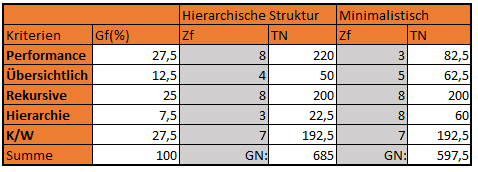
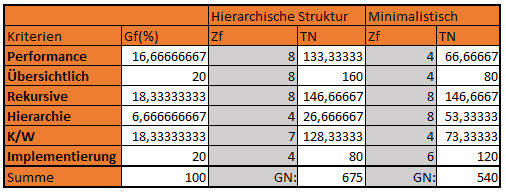
Implementierungsänderungen

diff --git a/chapters/examples/chapter05.tex b/chapters/examples/chapter05.tex
@@ -32,8 +32,8 @@ Die Tabelle (\ref{fig:Ziel}) zeigt was die verschiedenen Zahlen bedeuten. \cite{
  \label{fig:Nutz}
 \end{figure}
 
-Wie man erkennen kann ist der \ac{GN} zwischen den beiden Faktoren bei lediglich $32,5$.
-Da dieser unterschied zu gering ist, wird die Wermaßstäbe weiter verfeinert.
+Wie man erkennen kann ist der \ac{GN} zwischen den beiden Faktoren bei $70$.
+Da kein Unterschied erkannt werden kann, wird die Wermaßstäbe weiter verfeinert.
 Dadurch ändert sich die Punkteskala und Tabelle wie folgt:
 \begin{figure}[h!]
  \centering
@@ -48,71 +48,68 @@ Dadurch ändert sich die Punkteskala und Tabelle wie folgt:
  \caption{Nutzwertanalyse für die beiden Konzepte}
  \label{fig:Nutz}
 \end{figure}
-Durch die Verfeinerung liegt der Unterschied zwischen den beiden Faktoren bei $87,5$.
-Anhand der Verdopplung der Punkteskala hat sich der Unterschied fast verdreichfacht.
+Durch die Verfeinerung liegt der Unterschied zwischen den beiden Faktoren bei $135$.
 Wodurch das Konzept Hierarchische Struktur eindeutig im Rank an erste Stelle steht.
 
 \section{Vor/Nachteile Hierarchische Struktur}
 \label{sec:chapter05:Hierarchische}
-Bei der ersten Tabelle (\ref{fig:Ziel}) wurde der Hierarchische Struktur für Performance vier, Übersichtlich zwei, Rekursive vier, Hierarchie eins und \ac{K/W} drei Punkte gegeben.
+Bei der ersten Tabelle (\ref{fig:Ziel}) wurde der Hierarchische Struktur für Performance vier, Übersichtlich vier, Rekursive vier, Hierarchie eins, \ac{K/W} vier und Implementierung zwei Punkte gegeben.
 Die Performance hat vier bekommen, da die Effizienz durch den Algorithmus im Allgemeinfall um die 50 mal effektiver ist.
 Dies ist eine enorme Steigerung weshalb es die maximale Punktzahl bekommen hat.
-Übersichtlich hat zwei Punkte erhalten, weil die Entwickler einerseits dieses Konzept als übersichtlicher empfinden.
+Übersichtlich hat vier Punkte erhalten, weil die Entwickler einstimmig dieses Konzept als übersichtlicher empfinden.
 Zudem ist es einfach festzustellen, welches Profil, welche Aufgabe hat.
 Aber es hat zwei Punkte verloren dadurch, dass die Graphik bei weiteren Profilen schwieriger zu lesen wird, da diese groß ist.
 Rekursive hat vier Punkte erlangt, da es durch die Regelung, dass Profile nur noch Profile oder Berechtigungen enthalten sowie die feste Struktur keine Rekursivenbeziehungen möglich sind, sofern man nicht aktive gegen die Regelungen verstößt.
 Deshalb hat es wie Performance vier Punkte erhalten.
 Für die Hierarchie hat die Struktur nur einen Punkt bekommen, weil es bei diesem Punkt darum ging die Hierarchie so stark wie möglich zu verringern.
 Es ist besser als die vorherige Hierarchie, aber ist dennoch sehr hierarchisch.
-Die \ac{K/W} haben nur drei Punkte bekommen, da die Wartung aufwendig ist, um sicher zu Stellen, dass die Konvention eingehalten wurden.
+Die \ac{K/W} haben nur vier Punkte bekommen, da nach der Entwicklung der Profile, diese nicht mehr geändert werden sollen.
+Die Implementierung hat lediglich zwei Punkte bekommen, da diese aufwendig.
 \newline
 \newline
 Nachdem die \ac{Zf} erweitert wurde, haben sich die Werte wie folgt verändert.
-Die Performance wurde acht Punkte, Übersichtlich vier, Rekursive acht, Hierarchie drei und \ac{K/W} sieben Punkte gegeben.
+Die Performance wurde acht Punkte, Übersichtlich acht, Rekursive acht, Hierarchie vier, \ac{K/W} sieben und Implementierung vier Punkte gegeben.
 Wie schon im vorherigen Absatz angegeben kann dieses Konzept 50 mal effektiver sein.
-Deshalb habe diesem Punkt Exzellent gegeben, da dies eine deutliche Verbesserung ist.
-Übersichtlich hat ein vollbefriedigend Bewertung erhalten.
+Deshalb habe diesem Punkt exzellent gegeben, da dies eine deutliche Verbesserung ist.
+Übersichtlich hat eine exzellelte Bewertung erhalten.
 Die Struktur ist geordnet nach den Fachbereichen und hat ein hierarchie Limit von vier.
-Wenn man die vorherigen Probleme mit dazu in betracht zieht, habe ich dementsprechend der übersicht vier Punkt gegeben.
+Dies ist der Rahmen wodurch die IT-Spezialisten dies als übersichtlich befinden.
 In der Kategorie Rekrusive ändert sich nicht viel, weshalb es wieder volle Punktzahl erlangt.
 Hierarchie hat vier Punkte bekommen, da die hierarchie wenn auch nur minimal verringert wurde.
 Dies würde nur drei Punkte geben, aber da es auch die hierarchie Stufe auf vier limitiert wurde dies einen weiteren Punkt gegeben.
-\ac{K/W} hat nur sieben statt acht Punkte bekommen, da dieses Konzept in einem regelmäßigen Zyklus gewartet werden muss und diese Wartung aufwendig ist.
-Dies liegt daran, dass man allen Stellen überprüfen muss, ob die Regel, dass Profile nur Profile oder Berechtigungen enthalten nicht verletzt wurde.
-Daher ist es eine hervorragende Lösung, aber hat dennoch etwas was man berücksichtigen muss.
+\ac{K/W} hat nur sieben statt acht Punkte bekommen, da dieses Konzept, trotz dessen, dass es nicht geändert werden soll, in einem regelmäßigen Zyklus gewartet werden muss.
+Dies liegt daran, dass man überprüfen muss, ob nicht ein Entwickler aus Faulheit die Struktur geändert hat.
+Daher ist es eine hervorragende Lösung, aber man muss dennoch etwas berücksichtigen.
 \newline
 \newline
 Zusammenfassend hat das Konzept Hierarchische Struktur viele positive Aspekte.
-Unter diese Fallen zum Beispiel die erhöhte Performance sowie Rekursive und \ac{K/W}.
-Auf der anderen Seite ist dieses Konzept weiterhin sehr hierarchisch.
-Dabei ist zu berücksichtigen, dass dies aber nur ein Faktor von IT-Spezialisten war und nicht ein Teil des Hauptzieles.
-Zudem ist \ac{K/W} aufwendig sowie die Implementierung, da man die bestehenden Profile aufbrechen und neu Anordnen muss.
+Unter diese Fallen zum Beispiel die erhöhte Performance sowie Rekursive und Übersichlichkeit.
+Auf der anderen Seite ist dieses Konzept weiterhin sehr hierarchisch sowie ist die Implementierung aufwendig.
 Dies würde einiges an personen Tagen sowie weiteres Geld kosten.
 
 \section{Vor/Nachteile Minimalistisch}
 \label{sec:chapter05:Minimalistisch}
-Das Minimalistisch Konzept hat für Performance zwei, Übersichtlich zwei, Rekursive vier, Hierarchie vier und \ac{K/W} drei Punkte erhalten.
+Das Minimalistisch Konzept hat für Performance zwei, Übersichtlich eins, Rekursive vier, Hierarchie vier, \ac{K/W} zwei und Implementierung vier Punkte erhalten.
 Durch die verringerte Struktur hat sich die Performance ebenso verbessert, aber dies ist keine permanente Lösung, da ein Steigen von Profilen diesen Bonus nichtig macht.
 Aus diesem Grund hat es nur zwei Punkte bekommen.
-Übersichtlich hat ebenso nur zwei Punkte erlangt.
+Übersichtlich hat es nur einen Punkte erlangt.
 Auch wenn durch das entfernen der Hierarchie weniger Verwirrung herrscht, ist es dennoch sehr unübersichtlich, wenn alle Berechtigungen mit Außnahme der standard Berechtigunen, direkt am Profil hängen.
 Da es keine tiefe Hierarchie mehr gibt, ist es auch unmöglich, dass es eine Rekursion gibt.
 Weshalb dieses Konzept in diesem Punkt die maximale Anzahl von Punkten erlangt.
 Wie schon angesprochen geht es bei dem Punkt Hierarchie darum die Hierarchie so stark wie möglich zu reduzieren und dieses Konzept hat die Hierarchiestruktur auf ein Minimum gebracht und erhält daher vier Punkte.
-Die \ac{K/W} haben drei Punkte erlangt, da diese regelmäßig überprüft werden müssen, dass Entwickler nicht aus verschiedenen Gründen zusätzliche Profile hinzufügen.
+Die \ac{K/W} haben zwei Punkte erlangt, da diese regelmäßig überprüft werden müssen, dass Entwickler nicht aus verschiedenen Gründen zusätzliche Profile hinzufügen.
 Dies ist eine Sorge, da genau dies zur unübersichtlichen Berechtigungsstruktur gesorgt hat, die die Helvetia aktuell hat.
 \newline
 \newline
 Nach der Spezifizierung hat sich die Bewertung von das Minimalistisch Konzept wie folgt geändert.
-Die Performance wurde drei Punkte, Übersichtlich fünf, Rekursive acht, Hierarchie acht und \ac{K/W} sieben Punkte gegeben.
-Der Punkt Performance hat befriedigend bekommen, da die neue Struktur diese eine Verbesserung ist, aber dies sich ändern kann.
-Übersichtlich hat gut statt ein befriedigend erhalten, weil selbst wenn es auch schwieriger ist übersichtlich zu sehen, welche Berechtigungen alle einem Profil zu geordnet wurden, ist es dennoch leichter herauszufinden, wer alles eine spezifische Berechtigungen hat.
+Die Performance wurde vier Punkte, Übersichtlich vier, Rekursive acht, Hierarchie acht, \ac{K/W} vier und Implementierung sechs Punkte gegeben.
+Der Punkt Performance hat befriedigend bekommen, vier die neue Struktur diese eine Verbesserung ist, aber dies sich ändern kann.
+Übersichtlich hat gut statt ein vollbefriedigend erhalten, weil selbst wenn es auch schwieriger ist übersichtlich zu sehen, welche Berechtigungen alle einem Profil zu geordnet wurden, ist es dennoch leichter herauszufinden, wer alles eine spezifische Berechtigungen hat.
 Dies liegt daran, dass die Berechtigungen nicht mehrmals an verschiedenen Stellen dem Profil zu gewissen werden.
 Rekursive erlangt ein exzellent, da es nicht möglich ist eine rekursive Beziehung zu erstellen bis auf, wenn ein Standardprofil auf sich selber zeigt.
-Hierarchie ebenso wie Rekursive bekommt ein exzellent, da eine weitere reduktion der Hierarchie für lediglich mehr Chaos sorgen würde, da dann alle Berechtigunen direkt am Nutzer hängen würden.
-\ac{K/W} erlangt eine sieben. 
-Das Minimalistisch Konzept hat nicht viele Konzepte, die überprüft werden müssen sowie ist die Überprüfung einfach, da die Struktur so minimalistisch ist.
-Ein Punkt wurde jedoch abgezogen aufgrund dessen, dass es regelmäßig überprüft werden muss.
+Hierarchie ebenso wie Rekursive bekommt ein exzellent, da eine weitere reduktion der Hierarchie für lediglich mehr Chaos sorgen würde, da dann alle Berechtigungen direkt am Nutzer hängen würden.
+\ac{K/W} erlangt eine vier. 
+Das Minimalistisch Konzept hat nicht viele Konvention, die überprüft werden müssen sowie ist die Überprüfung einfach, da die Struktur so minimalistisch ist, aber es regelmäßig überprüft werden muss und das Risiko, dass ein Entwickler die Struktur ändert ist hoch.
 \newline
 \newline
 Zusammenfassend kann gesagt werden, dass das Minimalistisch Konzept am Hilfsreichsten ist, wenn man nach spezifischen Berechtigungen sucht.

diff --git a/chapters/examples/chapter04.tex b/chapters/examples/chapter04.tex
@@ -78,7 +78,7 @@ Deswegen gibt es nicht die eine Lösung, um eine solche Herausforderung zu löse
 \label{sec:chapter04:DB}
 Die Helvetia verwendet zum Speichern der Informationen für die Berechtigungsstruktur sogenannte HV-Tabellen.
 Bei diesen HV-Tabellen handelt es sich, um DB2-Tabellen.
-Zudem besteht eine Ähnlichkeit zwischen dem Nutzer und dem Profil in der Berechtigungsstruktur im Vergleich zum Account und der Gruppe in Datenbanken. \textbf{\textcolor[rgb]{1,0,0}{Der Satz ist für mich so nicht verständlich.}}
+Zudem besteht eine Ähnlichkeit zwischen dem Nutzer und dem Profil in der Berechtigungsstruktur im Vergleich zum Account und der Gruppe in Datenbanken.
 Deswegen wird betrachtet, wie der Standard von Accounts und Gruppen innerhalb von Datenbanken ist.
 \newline
 Berechtigungen für Rollen werden mittels GRANT...ON...TO...[GRANT OPTION] vergeben.
@@ -113,12 +113,14 @@ Und auch IBM gibt in seiner Best Practice an, dass Angestellte in einem Unterneh
 \label{sec:chapter04:Herausforderung}
 Bei der Recherche (\ref{ch:Recherche}) sind verschiedene Herausforderungen und Anforderungen aufgetreten.
 Um qualitativ ein Konzept entwickeln zu können, müssen diese Herausforderungen und Anforderungen aufgelistet und analysiert werden.
+Neben den genannten Punkten wurde der Punkte Implementierung hinzugefügt, da diese bei der Entscheidung der Konzepte elementar ist, da dass Unternehmen sich im Klaren sein muss, wie viele Ressourcen das neue Konzept kostet sowie der Punkt der Performance, da eine bessere Performance immer gut.
 \begin{itemize}
-	\item Performance der Tabellen erhöhen (effizientere Verifizierung der Mitarbeiter)
-	\item Übersichtlicher gestalten
+	\item Performance der Tabellen erhöhen 
+	\item Übersichtlicher gestalten (effizientere Verifizierung der Mitarbeiter)
 	\item Rekursive Beziehungen verhindern
 	\item Hierarchie verringern
 	\item \ac{K/W}
+	\item Implementierung
 \end{itemize}
 Um diese zu quantifizieren zu können, wird eine Prioritätsanalyse (\ref{fig:Prio}) verwendet, um festzustellen, wie die Priorität für die Konzepte sein muss. \cite{BdIufH}
 Bei der Prioritätsanalyse wurde sich für ein vier Punktesystem entschieden.
@@ -135,18 +137,19 @@ Zwischen der Übersichtlichkeit und der Rekursion wurden der Rekursion drei Punk
 Die Rekursion bekommt zur Hierarchie vier Punkte und die Hierarchie zur Rekursion null Punkte, da eine rekursive Beziehung die Hierarchie automatisch unendlich macht.
 \newline
 \newline
-Wenn man dies auswertet, bekommt die Performance einen Gewichtsfaktor von 27,5\%, die Übersichtlichkeit 12,5\%, die Rekursion 25\%, die Hierarchie 7,5\% und \ac{K/W} 27,5\%.
+Wenn man dies auswertet, bekommt die Performance einen Gewichtsfaktor von 16,66667\%, die Übersichtlichkeit 20\%, die Rekursion 18,33333\%, die Hierarchie 6,66667\%, die \ac{K/W} 18,33333\% und Implementierung 20\%.
 Dadurch sieht die Rangfolge wie folgt aus:
 \begin{enumerate}
-	\item Performance | \ac{K/W}
-	\item Rekursion
-	\item Übersichtlichkeit
+	\item Implementierung | Übersichtlichkeit
+	\item Rekursion | \ac{K/W}
+	\item Performance
 	\item Hierarchie
 \end{enumerate}
 Anhand dieser Reihenfolge werden die folgenden Konzepte entwickelt.
 \begin{figure}[h!]
+\hspace*{-2cm}
  \centering
- \includegraphics[width=1\textwidth]{gfx/Picture/Prioritatätsanalyse.PNG}
+ \includegraphics[width=1.25\textwidth]{gfx/Picture/Prioritatätsanalyse.PNG}
  \caption{Prioritätsanalyse der Kriterien}
  \label{fig:Prio}
 \end{figure}
@@ -176,7 +179,7 @@ In solchen Fällen würden diese Profile zu Hauptprofilen werden und vom vorheri
 	\item Manche Fachbereiche haben aufzählende Profile (\ref{fig:Profile}).
 Diese Profile sollen nur noch über die Berechtigungen für den eigenen Vorgang enthalten, sodass ein Privas Profil nur Privas Berechtigungen enthält.
 Die Berechtigung die verloren gehen würden eigene Profile bekommen und würden über ein anderes Sammelprofil dem Hauptprofil hinzugefügt werden.
-	\item Sollte ein Nutzer weitere Berechtigungen benötigen, würden diese über ein anderes Hauptprofil, welches am ehesten für die Aufgabe passt, zugeordnet.
+	\item Sollte ein Nutzer weitere Berechtigungen benötigen, würden diese direkt ihm zugewiesen werden.
 	\item Wenn ein Account reaktiviert wird, muss dieser rezertifiziert werden.
 \end{itemize}
 Diese Konventionen sollen verhindern, dass die Struktur weiter wächst und das man ohne Probleme feststellen kann, was für Berechtigungen ein Profil hat.
@@ -195,7 +198,6 @@ Außerdem sollte die Performance verbessert werden. Dies durch die fehlenden rek
  \caption{Beispiel der neuen Berechtigungsstruktur}
  \label{fig:NeuBer}
 \end{figure}
-\newpage
 Das Bild (\ref{fig:AltBer}) zeigt eine bestehende Berechtigungsstruktur.
 (\ref{fig:NeuBer}) hingegen bildet die Struktur nach den neuen Konventionen dar.
 Diese beide Bilder wurden den IT-Spezialisten gezeigt, die befragt wurden.
@@ -238,6 +240,40 @@ Average(Merge) = $100*log(100) = 200$
 \newline
 Man kann erkennen, dass im normalen Falle die neue Struktur mit dem Merge-Sort deutlich effektiver ist als die bestehende Struktur.
 Diese würde durchschnittlich $50$ mal effektiver sein.
+\newline
+\newline
+Die Entwicklung dieses Konzeptes ist aufwendig und komplex.
+Es gibt dabei zwei Möglichkeiten wie dieses umgesetzt werden kann.
+Die erste Möglichkeit besteht dabei, dass sich eine Gruppe von Entwicklern an die bestehende Struktur setzen, eine Kopie davon erstellen und anhand der Kopie die neue Struktur erstellen.
+Dies ist jedoch Zeit aufwendig und es besteht ein hohes Potenzial, dass Fehler geschehen durch nachlässiges Arbeiten.
+\newline
+Die zweite Möglichkeit wäre eine Algorithmus zu schreiben, welcher dies automatisiert.
+Da weder die Zeit besteht noch die entsprechende Umgebung zum Testen eines Prototypen, kann die Entwicklung des Algorithmus innerhalb dieser Arbeit nur mittels von Pseudocode stattfinden.
+Dabei würde die Automatisierung wie folgt aussehen.
+\newline
+\newline
+\textbf{Algorithmus} conversionToNewStructure(DB$2$ T)
+\newline
+\newline
+\textbf{Input} Eine DB2 Tabelle T, welche die Struktur enthält
+\newline
+\newline
+\textbf{Output} Neu DB2 Tabelle T, welches die neue Struktur von Profilen enthält.
+\newline
+\newline
+Der Algorithmus muss dabei die Profile in zwei Kategorien aufteilen:
+\begin{itemize}
+	\item Standardprofil
+	\item Lese-/Schreibeprofil
+\end{itemize}
+Für die Standardprofile werden die Profile überprüft, die viele Unterprofile haben.
+Wenn ein Profil X Y viele Unterprofile hat, wird dieses zu einem Standardprofil.
+Die restlichen Profile werden zu Lese-/Schreibeprofile.
+Die individuellen Sammelprofile werden basierend auf den Lese-/Schreibeprofile generiert.
+Die Verbindungen zwischen den bisherigen Profilen wird aufgebrochen und zu den neuen Sammelprofilen zu gewiesen, welche mit dem Standardprofil verbunden sind.
+Anschließend werden auf redundante Profile und Berechtigungen überprüft, welche dann entfernt werden.
+Dabei muss man aber zum Schluss begutachten, ob alle generierten Standardprofile wirklich Standardprofile sein sollten sowie ob die bestehende Anzahl ausreichend ist.
+
 \newpage
 \section{Konzept Minimalistisch}
 \label{sec:chapter04:minimal}
@@ -247,6 +283,7 @@ Dabei haben die IT-Spezialisten folgende Vorschläge für die Konventionen gemac
 \begin{itemize}
 	\item Profile enthalten nur noch Profile oder Berechtigungen.
 	\item Es werden Standardprofile für die jeweiligen Abteilungen entwickelt.
+	\item Nutzer, die in verschiedenen Abteilungen operieren erhalten, die jeweiligen Standardprofile.
 	\item Zusätzliche Berechtigungen werden dem Nutzer direkt zu geordnet.
 	\item Wenn ein Account reaktiviert wird, muss dieser rezertifiziert werden.
 \end{itemize}
@@ -292,3 +329,27 @@ Average(Neue Struktur) = $32^2 = 1.024$
 \newline
 Man kann feststellen, dass obwohl die neue Struktur nicht über einen effizienteren Algorithmus verfügt, dieser trotzdem eine bessere Performance hat.
 Die neue Struktur wäre in diesem Beispiel ca. $12$ mal performanter als die bestehende Struktur.
+\newline
+\newline
+Ebenso kann für dieses Konzept eine manuelle Lösung verwendet werden sowie eine automatische.
+Wie im vorherigen Fall kann eine Kopie vom vorherigen Konzept erstellt werden, welches dann in das neue ummodelliert wird.
+Jedoch wird der Prozess der individuellen Berechtigungsvergabe zu den einzelnen Nutzern Zeitaufwendig sein.
+Dabei können auch Berechtigungen verloren gehen und dies wäre ein Problem.
+\newline
+Als Alternative kann ein Algorithmus verwendet werden.
+Dieser ist dem vorherigen in der Grundstrucktur gleich:
+\newline
+\newline
+\textbf{Algorithmus} conversionToNewStructure(DB$2$ T)
+\newline
+\newline
+\textbf{Input} Eine DB2 Tabelle T, welche die Struktur enthält
+\newline
+\newline
+\textbf{Output} Neu DB2 Tabelle T, welches die neue Struktur von Profilen enthält.
+\newline
+\newline
+Der Algorithmus würde die komplette bisherige Struktur auseinander brechen.
+Anschließened werden die Standardprofile anhand der Fachbereiche neu geformt und den Nutzern der jeweiligen Bereiche zugewiesen.
+Die bisherigen Berechtigungen werden anschließend den Nutzern direkt angehängt.
+Redundate Berechtigungen werden entfernt.
